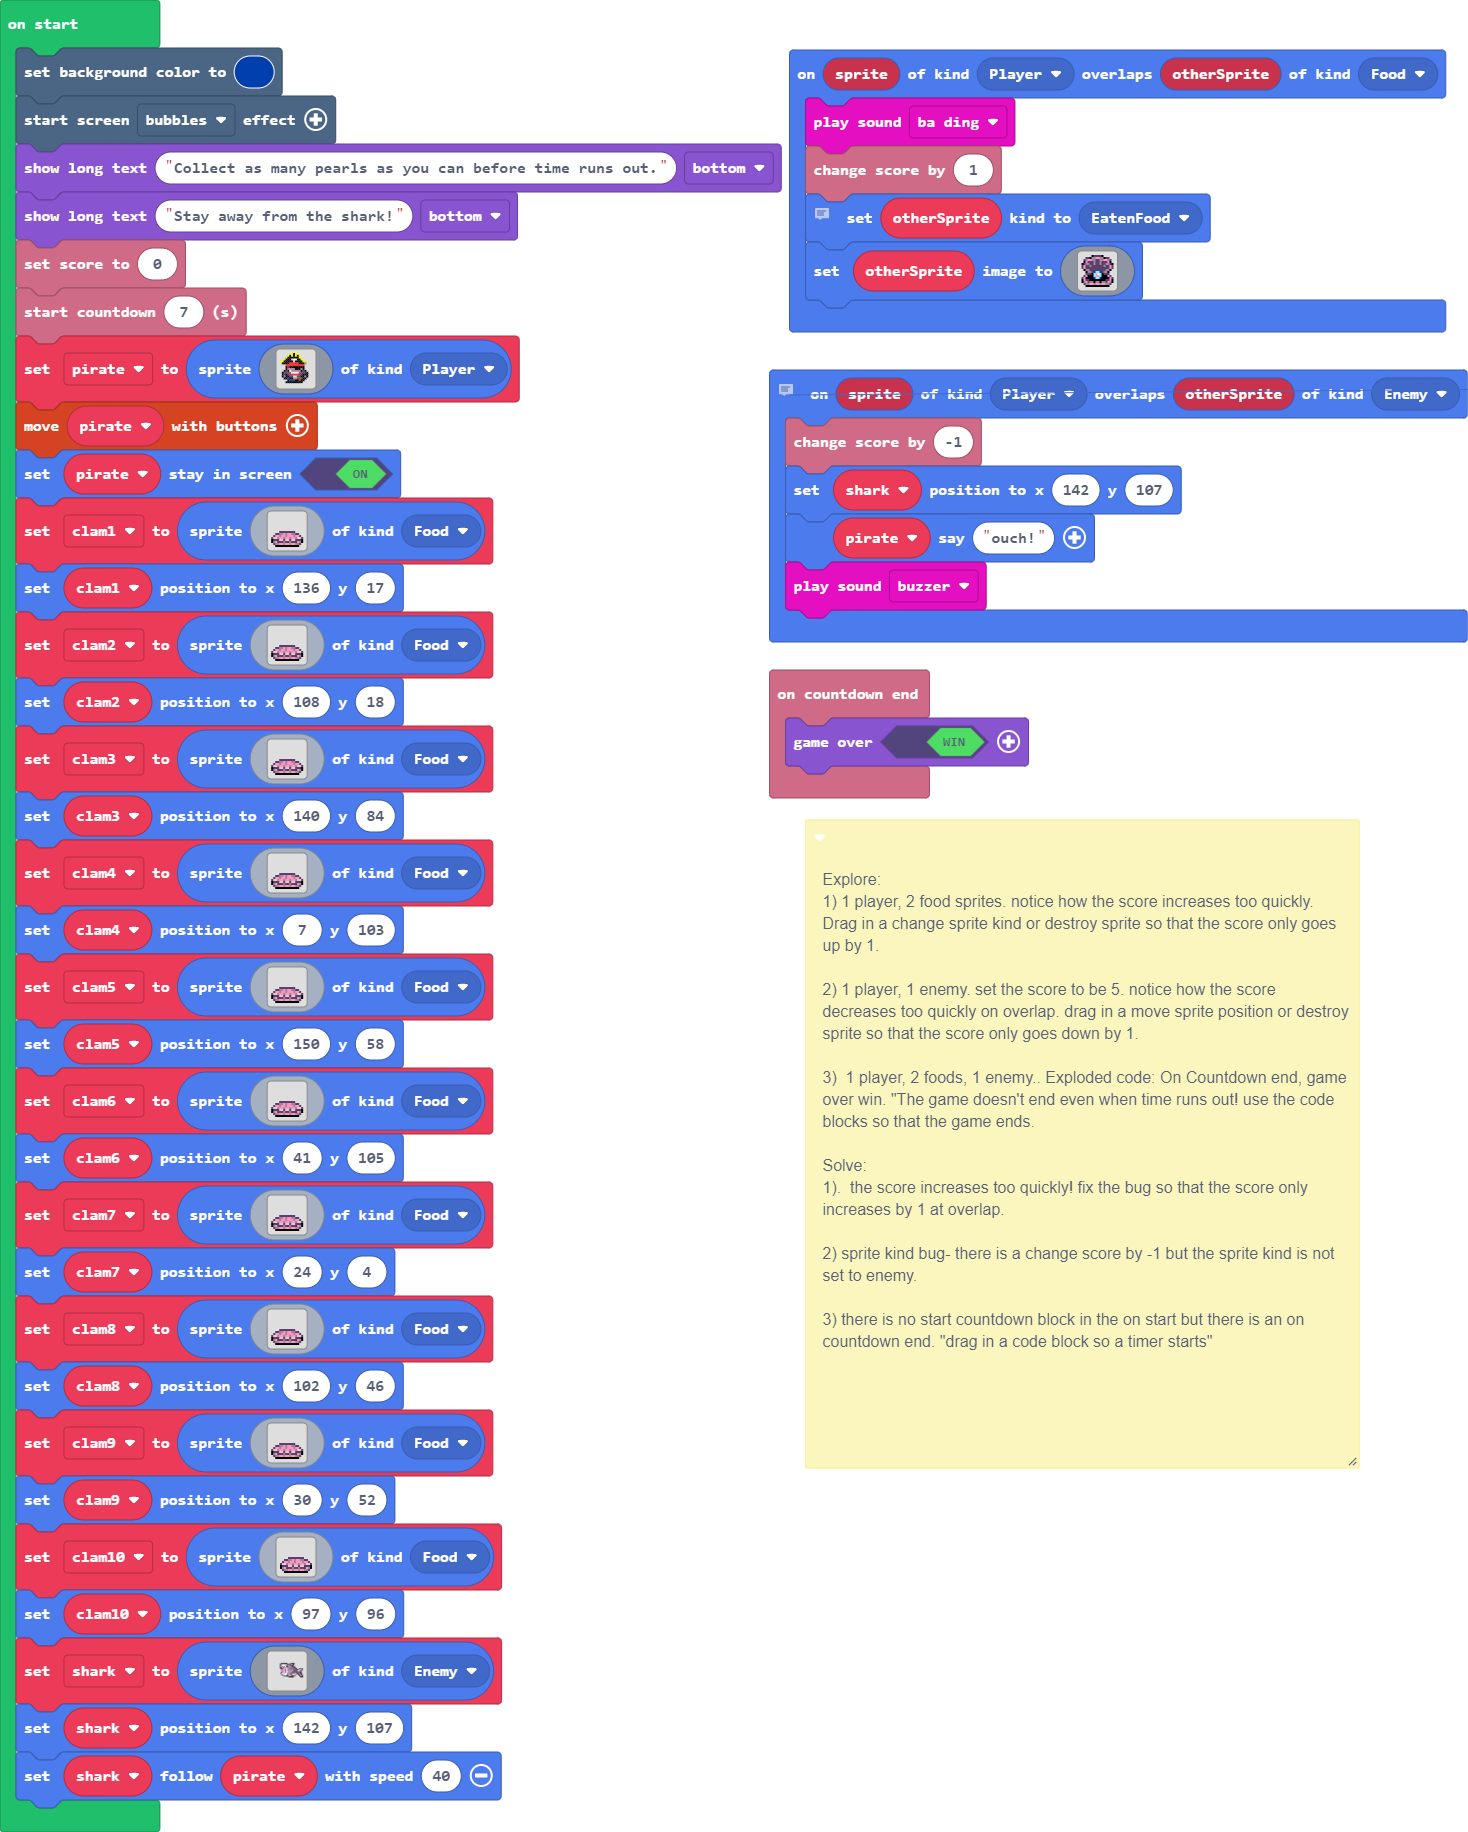
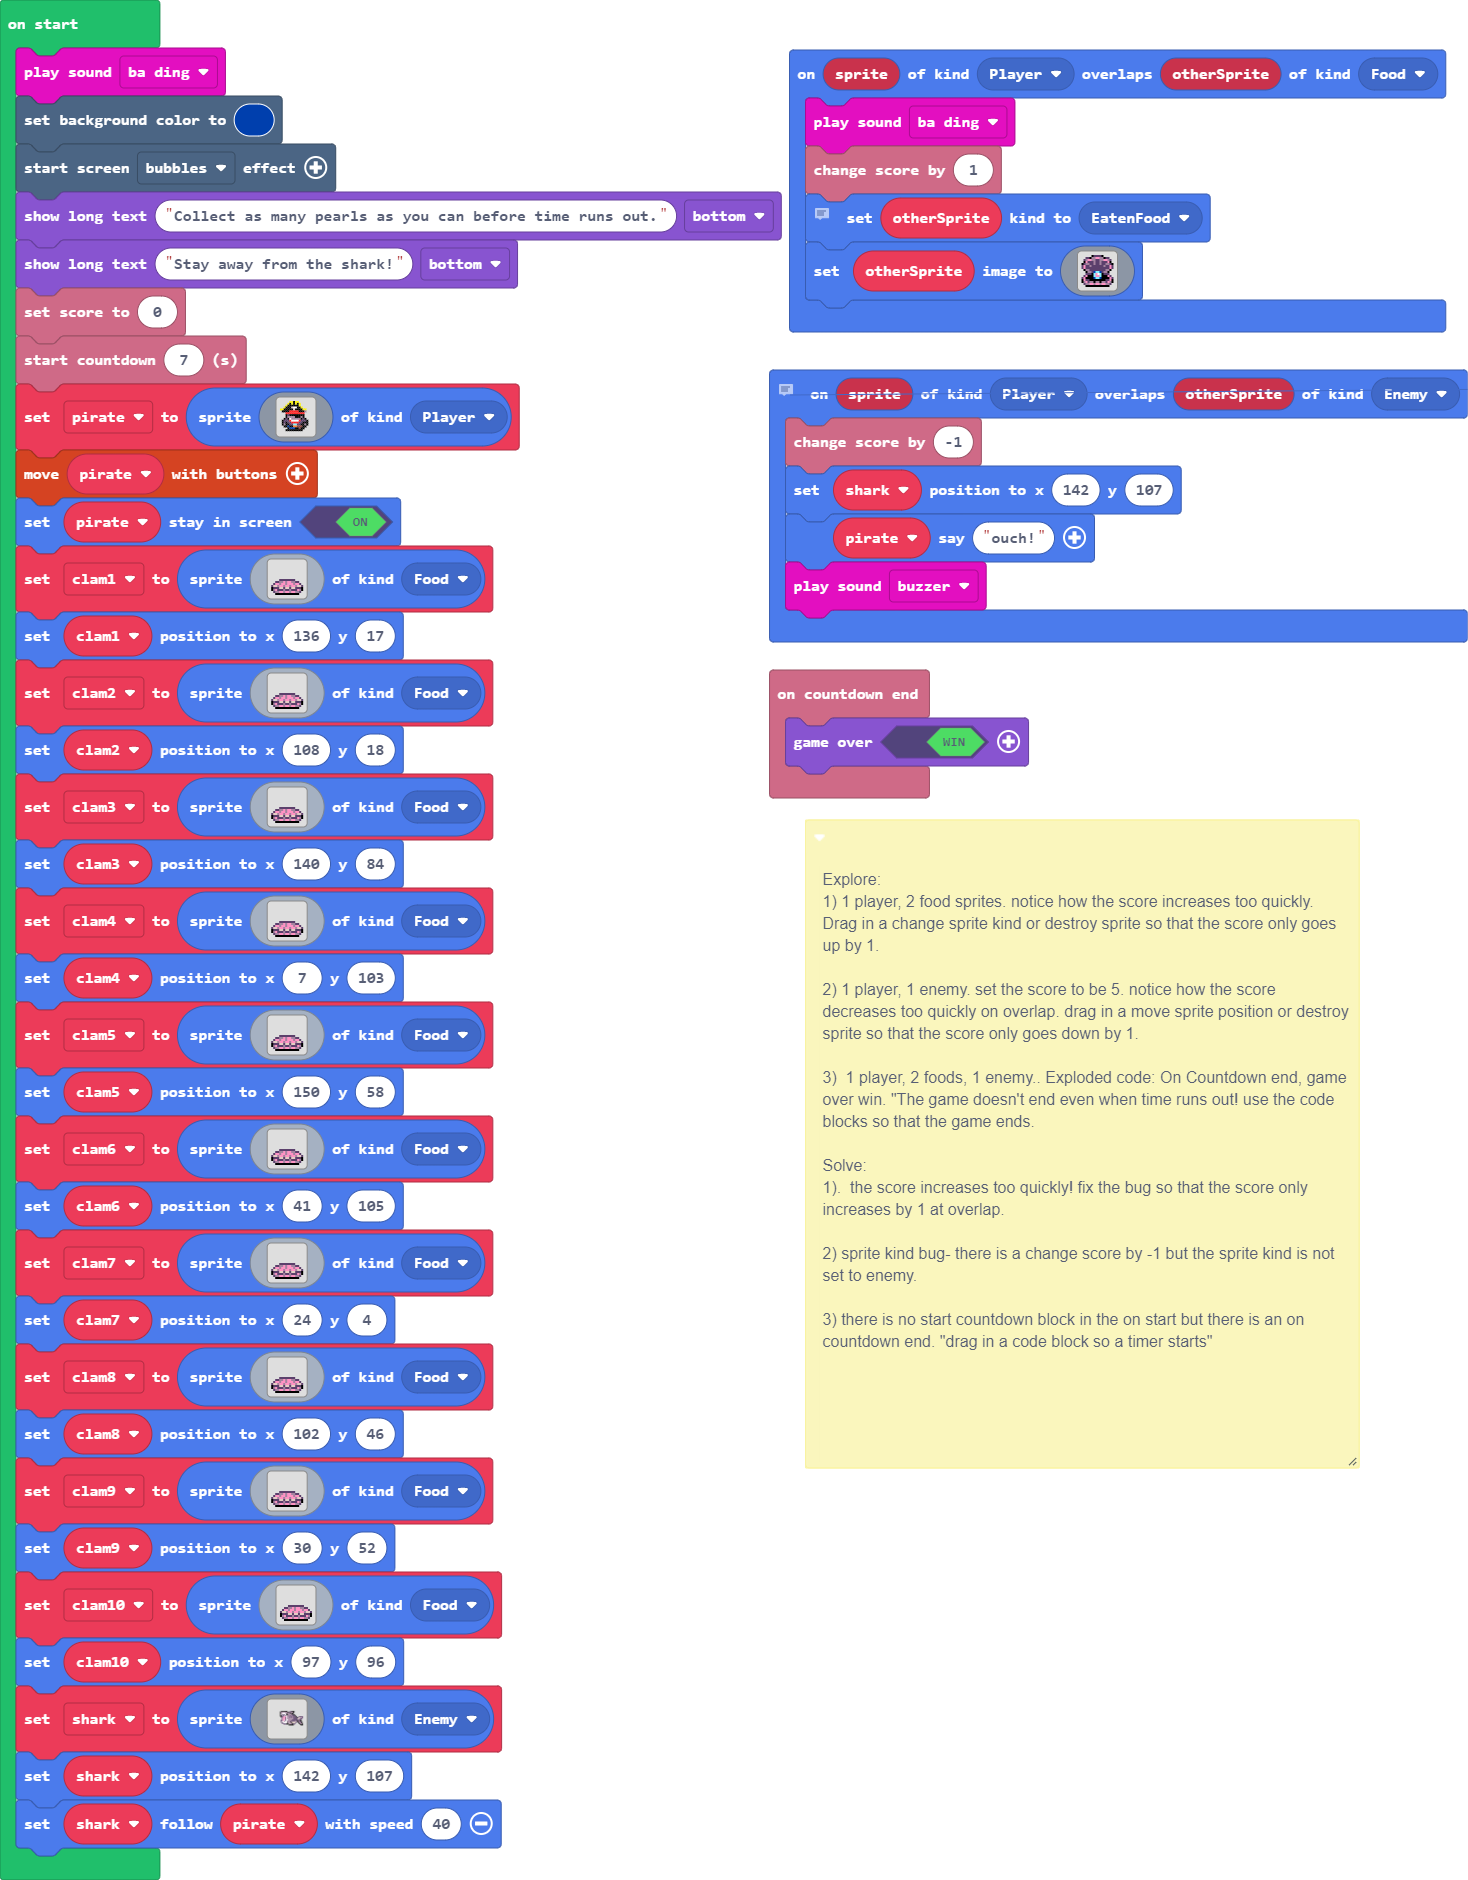
sound test

Changed region(s): [[0.0, 0.0, 1.0, 0.9956], [0.5518, 0.7778, 0.9503, 0.809]]

diff --git a/main.ts b/main.ts
@@ -54,6 +54,7 @@ sprites.onOverlap(SpriteKind.Player, SpriteKind.Enemy, function (sprite, otherSp
  */
 let shark: Sprite = null
 let pirate: Sprite = null
+music.baDing.play()
 scene.setBackgroundColor(8)
 effects.bubbles.startScreenEffect()
 game.showLongText("Collect as many pearls as you can before time runs out.", DialogLayout.Bottom)
